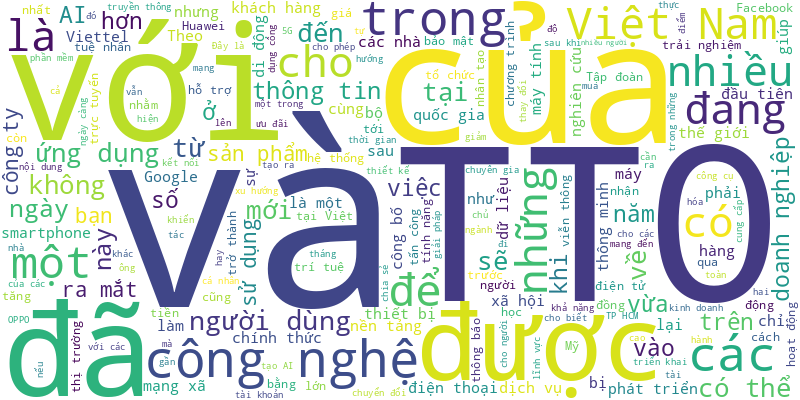
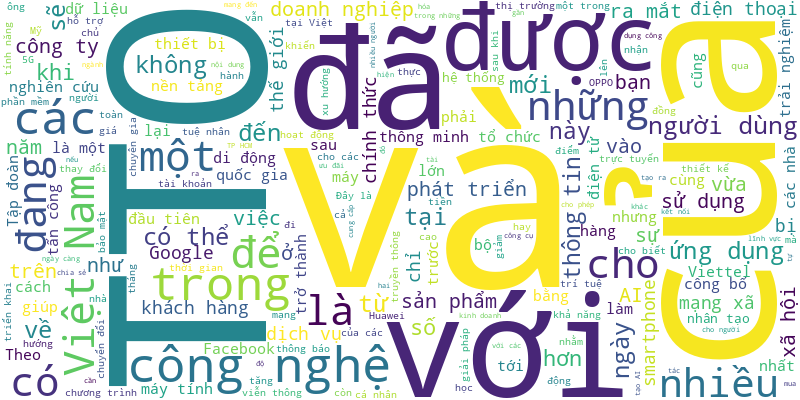
🍀 = 10%

diff --git a/README.md b/README.md
@@ -1,6 +1,17 @@
 # Tuoi Tre RSS 
 
 ## Giáo dục 
+- Đi trao học bổng Tiếp sức đến trường của báo Tuổi Trẻ, GS.TS Phan Lương Cầm luôn mặc áo dài và nụ cười nở trên môi.
+- Mở rộng đào tạo là cần thiết nhưng không thể bỏ qua yếu tố chất lượng, gắn kết thực tiễn và có sự đối thoại thường xuyên với doanh nghiệp. Chỉ có như vậy thì việc đào tạo mới bền vững và không rơi vào tình trạng thừa nhân lực.
+- Bộ Giáo dục và Đào tạo yêu cầu các trường phải chịu trách nhiệm giải trình về căn cứ khoa học và thực tiễn khi lựa chọn tổ hợp xét tuyển.
+- Sáng 9-4, Trường mầm non 12 (quận 4, TP.HCM), khởi công xây dựng hơn 1 năm trước, đã khánh thành và đưa vào sử dụng.
+- Lãnh đạo Sở Giáo dục và Đào tạo Hà Nội khẳng định sẽ không tái diễn tình trạng xếp hàng xin học trong mùa tuyển sinh đầu cấp năm nay.
+- Dạy học 2 buổi/ngày chương trình chính khóa, trường không được thu phí, mỗi thầy cô chỉ có thể phát huy tinh thần tự nguyện dạy tăng cường.
+- Giám đốc Sở Giáo dục và Đào tạo TP.HCM vừa ký văn bản chỉ đạo về tuyển sinh đầu cấp năm học 2025-2026.
+- UBND huyện Ia Grai (Gia Lai) vừa thu hồi quyết định công nhận trúng tuyển 61 viên chức giáo viên sau khi UBND tỉnh này cho rằng vi phạm các chỉ đạo của trung ương.
+- Theo PGS.TS Nguyễn Chí Thành, việc bồi dưỡng giáo viên, xây dựng các khung năng lực AI cho học sinh là nội dung rất quan trọng. Bởi nếu sử dụng AI không đúng cách, người dùng có thể trở thành 'nô lệ số'.
+- Chủ tịch UBND xã Bình Tân (huyện Gò Công Tây, tỉnh Tiền Giang) cho biết đã nắm được vụ việc học sinh Trường tiểu học Nguyễn Văn Trừ (xã Bình Tân) tố cáo thầy chủ nhiệm sàm sỡ học sinh ngay trên bục giảng.
+- Ông Dương Thế Hảo khởi kiện dân sự đòi bồi thường 36 tỉ đồng, với lý do tốt nghiệp năm 1989 nhưng 30 năm sau Đại học Kinh tế quốc dân mới giao bằng.
 - Hình ảnh suất cơm bán trú chỉ có vài lát chả lụa và rau củ xào được cho là của học sinh bán trú Trường tiểu học Núi Thành (Đà Nẵng), gây tranh cãi trên mạng xã hội. Nhà trường nói gì về hình ảnh này?
 - Ông Thái Văn Tài, vụ trưởng Vụ Giáo dục phổ thông (Bộ GD-ĐT), khẳng định như vậy khi trao đổi với Tuổi Trẻ về vấn đề tổ chức dạy 2 buổi/ngày ở cấp trung học.
 - Mục tiêu đến năm 2035, mỗi cơ sở đào tạo của Trường đại học Y Hà Nội có ít nhất 1 cơ sở thực hành chính; xây dựng tối thiểu 5 bệnh viện trực thuộc Trường đại học Y Hà Nội đạt tiêu chuẩn chất lượng quốc tế.
@@ -993,21 +1004,68 @@ Trường đại học Văn Lang được QS xếp hạng top 51-100 thế giớ
 - Bộ Giáo dục và Đào tạo có công văn yêu cầu Đại học Huế tổ chức đánh giá lại nội dung luận án tiến sĩ của bà Lê Thị An Hòa được kết luận có lỗi đạo văn.
 - Tối 13-12, Sở Giáo dục và Đào tạo TP.HCM đã ban hành văn bản hướng dẫn về việc nghỉ Tết Nguyên đán Ất Tỵ 2025.
 - Để giảm áp lực, đồng thời tăng cơ hội chọn ngành phù hợp và được học trong môi trường đại học quốc tế tại sân nhà cho 2K7, năm 2025 Trường đại học FPT công bố bốn phương thức tuyển sinh.
-- Trường tiểu học Lương Định Của và Trường THCS Colette vừa được trao biển hiệu kiểm định chất lượng giáo dục Label FrancEducation của Bộ Ngoại giao và châu Âu Pháp.
-- Giờ ra chơi, sân trường Trường THPT Trường Chinh (quận 12, TP.HCM) không có cảnh học sinh cắm mặt vào điện thoại, mà rộn rã tiếng cười nói của các nhóm chơi bóng rổ, đá cầu, nhảy hiện đại...
-- 70 giảng viên và sinh viên của 13 trường đại học và phổ thông trung học từ bảy quốc gia, vùng lãnh thổ châu Á trao đổi kinh nghiệm nhận diện thông tin giả.
-- Thấy trường có thể không còn khả năng hoạt động, các phụ huynh đã đóng gói học phí nhiều năm muốn lấy lại tiền từ trường quốc tế Saigon Star.
-- Lịch nghỉ Tết của học sinh nên chốt thành ngày nghỉ cố định hằng năm?
-- TP.HCM sẽ tổ chức kỳ thi tuyển sinh bổ sung lớp 10 chuyên vào tháng 5-2025, thay vì cuối học kỳ 1 như trước.
-- Học sinh THPT sẽ được học thực hành lái xe theo 4 hình mẫu gồm: đi qua hình số 8, đi qua vạch đường thẳng, đi qua đường có vạch cản, đi qua đường gồ ghề và các nội dung khác có liên quan.
-- Hơn 25 năm qua, cô giáo Phạm Thị Kim Cương (Đà Nẵng) vẫn miệt mài trao con chữ cho nhiều thế hệ học sinh có hoàn cảnh khó khăn.
-- Cuốn sách 'Phòng, chống ma túy trong các cơ sở giáo dục, trường học' được trình bày sinh động, phù hợp với tất cả các lứa tuổi học sinh, sinh viên, dễ đọc, dễ hiểu.
-- Thời gian gần đây công an ở Hà Tĩnh đã kịp thời ngăn chặn các nhóm thanh thiếu niên sử dụng hung khí để giải quyết mâu thuẫn, triệu tập hàng chục thanh thiếu niên để xử lý vi phạm. Dư luận đặt câu hỏi vì sao tình trạng này lại "nóng".
-- Nhiều sáng kiến hợp tác, các giải pháp thiết thực phát triển giáo dục và đào tạo giáo viên đã được lãnh đạo các trường đại học các nước khu vực Đông Nam Á chia sẻ.
 ![Edu](Edu.png)
 ## Thời Sự 
+- Bộ Nội vụ khuyến nghị bổ sung quy định về các ngày nghỉ, mục đích nghỉ với công chức khi chăm con, cha mẹ già đau ốm được làm việc từ xa.
+- Đến 7h30 ngày 10-4, lực lượng chức năng đang phong tỏa hiện trường để điều tra vụ cháy nhà khiến 4 người chết xảy ra tại TP Mỹ Tho, tỉnh Tiền Giang.
+- Hai cơ sở thẩm mỹ tại quận 1 và quận 3 vừa bị Thanh tra Sở Y tế TP.HCM phát hiện có dấu hiệu thực hiện dịch vụ hút mỡ trái phép.
+- Dự thảo Luật Ban hành văn bản quy phạm pháp luật đề xuất bổ sung lại thẩm quyền ban hành văn bản quy phạm pháp luật với cấp xã.
+- Hôm nay 10-4-2025, Tuoi Tre News chính thức nâng cấp lên giao diện mới, được chạy thử nghiệm tại địa chỉ https://tuoitrenews.vn/.
+- Thời gian qua, nhiều tuyến đường, vỉa hè ở TP.HCM được chỉnh trang khoác áo mới nhưng cũng còn những nơi ngổn ngang, bề bộn. Các địa phương cam kết nhiều công trình sẽ hoàn thành trước dịp 30-4.
+- Một số tin tức đáng chú ý: Dự báo GDP Việt Nam tăng 6,6% năm nay; Giá thuê bất động sản công nghiệp phía Nam tăng; 'Đại gia' lúa gạo An Giang bị phong tỏa tài khoản, cổ phiếu sắp hủy niêm yết...
+- Hôm nay 10-4, thời tiết nhiều nơi trên cả nước nắng nóng, oi bức, cảnh báo nguy cơ cháy nổ cao.
+- Theo các cơ quan của tỉnh Khánh Hòa và tỉnh Thái Nguyên, việc “dừng tính” làm thủ tục đất đai và “định vị vị trí đất ở” dễ phát sinh tiêu cực, nhũng nhiễu, gây khó khăn, tốn kém cho dân.
+- UBND TP.HCM đề xuất Bộ Nội vụ nên sửa Luật Tổ chức chính quyền địa phương theo hướng cho địa phương quy định cụ thể cho phù hợp, trao 'cơ hội' cho thành phố trực thuộc Trung ương.
+- Phát hiện 2 nữ sinh đuối nước, 3 thanh niên, trong đó có 2 anh em sinh đôi, ở phường Phú Đông (TP Tuy Hòa, tỉnh Phú Yên) đã không ngần ngại nhảy xuống biển cứu người.
+- Nhiều người mua căn hộ tại chung cư nhà ở xã hội Bàu Tràm Lakeside (quận Liên Chiểu, TP Đà Nẵng) phản ánh việc chủ đầu tư yêu cầu họ nộp lại bản gốc hợp đồng mua bán để làm thủ tục cấp sổ hồng.
+- Chiều 9-4, Thủ tướng Chính phủ Phạm Minh Chính đã tuyên dương và trao Huân chương Bảo vệ Tổ quốc, bằng khen cho các tập thể, cá nhân tham gia cứu hộ động đất tại Myanmar vừa qua.
+- TP.HCM đã cấp phép 21 điểm trông giữ xe trên đường, nhưng vẫn tồn tại tình trạng đậu xe không nộp phí, chưa có cách chế tài xử lý.
+- Với tinh thần 'không ai bị bỏ lại phía sau', Bệnh viện Chợ Rẫy sẽ hỗ trợ mua bảo hiểm y tế cho bệnh nhân trên toàn quốc.
+- UBND TP.HCM vừa ban hành quyết định phê duyệt dự án thành phần 3 - bồi thường, hỗ trợ, tái định cư cao tốc TP.HCM - Mộc Bài đoạn qua TP.HCM.
+- Sau khi được các bác sĩ Bệnh viện Chợ Rẫy (TP.HCM) cứu sống ngoạn mục, nghệ sĩ Thanh Tuấn đã cất tiếng hát cảm ơn ngay tại bệnh viện.
+- Tại phiên họp thứ 44, Ủy ban Thường vụ Quốc hội sẽ xem xét, thông qua nghị quyết mới về sắp xếp đơn vị hành chính và cho ý kiến sửa Hiến pháp.
+- Bộ trưởng Bộ Xây dựng yêu cầu các đơn vị liên quan sớm hoàn thiện thủ tục để khởi công 5 dự án giao thông đã phê duyệt dự án đầu tư trong tháng 5 và tháng 6-2025.
+- Một cán bộ huyện ở tỉnh Nghệ An có đơn nghỉ hưu trước tuổi được đề nghị hưởng chế độ hơn 2,4 tỉ đồng.
+- Hàng ngàn xe 'chôn bánh' trên cao tốc TP.HCM - Long Thành - Dầu Giây, hướng từ Đồng Nai về TP.HCM, nguyên nhân do phong tỏa hiện trường để điều tra vụ cháy xe tải trên cầu Long Thành.
+- Ban Thường vụ Tỉnh ủy Lào Cai và Ban Thường vụ Tỉnh ủy Yên Bái vừa họp thống nhất phương án sắp xếp, hợp nhất hai tỉnh.
+- Lễ hội Làng Sen là hoạt động chính trị, văn hóa có ý nghĩa quan trọng, thể hiện lòng biết ơn, thành kính của nhân dân đối với Chủ tịch Hồ Chí Minh.
+- Bộ Xây dựng quyết định bổ sung hạng mục xây dựng nút giao với đường Võ Văn Kiệt kéo dài kết nối với cao tốc Mỹ Thuận - Cần Thơ để hình thành trục động lực phát triển thành phố Vĩnh Long.
+- Một doanh nghiệp đã đề xuất với tỉnh Quảng Bình về việc xây dựng khu du lịch Hồ Thác Chuối và đỉnh U Bò.
+- Chiều 9-4, trong khuôn khổ sự kiện Gặp gỡ ASEAN tại Đà Nẵng 2025, Chủ tịch UBND TP Đà Nẵng Lê Trung Chinh đã trao khoản ủng hộ 10.000 USD cho đại biện lâm thời Myanmar tại Việt Nam, giúp Myanmar khắc phục hậu quả động đất.
+- Cục Việc làm (Bộ Nội vụ) vừa thông tin về tình hình tai nạn lao động năm 2024, trong đó TP.HCM, Bình Dương, Đồng Nai là những địa phương dẫn đầu.
+- Hàng loạt điểm múc đất, xây dựng trái phép 2 bên quốc lộ 27 để săn view hồ thủy điện Buôn Tua Srah nhiều năm nay, nhưng địa phương chỉ nhắc nhở.
+- Vườn quốc gia U Minh Thượng (huyện U Minh Thượng, Kiên Giang) vừa có thông báo việc tạm ngưng các hoạt động tham quan và trải nghiệm câu cá giải trí trong vườn này để phòng cháy, bảo vệ rừng mùa khô năm 2025.
+- Lực lượng chức năng Đồng Nai đang mời lái xe đầu kéo tông gãy gác chắn khi tàu hỏa đang lao tới lên làm việc.
+- UBND huyện Ia Grai (Gia Lai) vừa thu hồi quyết định công nhận trúng tuyển 61 viên chức giáo viên sau khi UBND tỉnh này cho rằng vi phạm các chỉ đạo của trung ương.
+- Dù đã mạnh tay xử lý các cơ sở nha khoa, thẩm mỹ viện tại Đắk Lắk không phép, Thanh tra Sở Y tế tỉnh Đắk Lắk thừa nhận các vi phạm vẫn liên tục diễn ra, khuyến cáo người dân cẩn thận.
+- Sau hàng loạt vụ tai nạn trên đèo Bảo Lộc (quốc lộ 20), Công an tỉnh Lâm Đồng tiến hành ghi hình xử nhiều trường hợp lấn làn vượt ẩu ở khu vực nói trên.
+- TP Huế đã lập phương án sắp xếp từ 133 đơn vị hành chính cấp xã xuống còn 66 xã, phường. Tuy nhiên đây chưa phải là phương án cuối cùng.
+- Chia sẻ với Tuổi Trẻ Online ngày 9-4, nhiều người dân cho biết cảm thấy thích thú trước sự xuất hiện của mô hình "ngôi nhà xanh" thu gom rác thải phế liệu bên kênh 19-5 (phường Bình Hưng Hòa, quận Bình Tân, TP.HCM).
+- Xe tải đang chạy trên cao tốc TP.HCM - Long Thành - Dầu Giây thì bất ngờ bị cháy rụi, nguyên nhân đang được điều tra.
+- Bộ trưởng Đỗ Đức Duy cho rằng trong bối cảnh đang sắp xếp bộ máy, có tâm lý dè dặt trong thực hiện đề án 1 triệu héc ta lúa chất lượng cao, phát thải thấp.
+- Tổng Bí thư Tô Lâm nhắc lại mục tiêu đến 2030, 100% người có công và gia đình người có công sẽ có mức sống trung bình khá trở lên, được chăm lo toàn diện về vật chất, tinh thần.
+- Theo dự thảo, sau sắp xếp, tỉnh Bình Phước giảm hơn 50% đơn vị hành chính cấp xã, giảm từ 111 đơn vị còn 48 đơn vị.
+- Một vụ ngộ độc thực phẩm nghi liên quan đến cơm nắm khiến 12 học sinh tại Nghệ An nhập viện.
+- Trong 2 ngày 8 và 9-4 đã xảy ra 3 vụ xe tải đâm hỏng cần chắn đường sắt khi qua đường ngang. Điều may mắn là các vụ việc trên không dẫn tới tai nạn với tàu hỏa.
+- Sáng 9-4, Đồng Tháp công bố quyết định của Thủ tướng Chính phủ về việc phê chuẩn kết quả bầu ông Trần Trí Quang giữ chức vụ chủ tịch tỉnh Đồng Tháp.
+- Cụ bà 104 tuổi ở phường Tân Kiểng, quận 7 (TP.HCM) không thể đi lại, Công an TP.HCM cho biết sẽ tổ chức cấp căn cước lưu động cho bà sớm nhất.
+- Thủ tướng Tây Ban Nha Pedro Sánchez cho biết chuyến thăm Việt Nam của ông là khởi đầu cho các hoạt động cấp cao, cũng như giai đoạn hợp tác mới giữa hai nước.
+- GS.TS Phan Lương Cầm - phu nhân cố Thủ tướng Võ Văn Kiệt - vừa qua đời rạng sáng 9-4, ở tuổi 82.
+- Công an bước đầu đã làm rõ vụ việc tài xế dùng hung khí dọa tấn công người khi bị nhắc đậu xe chắn lối đi, đồng thời ra quyết định xử phạt hành chính với lỗi dừng, đỗ xe không đúng quy định.
+- Gần 3 năm vắng bóng, dịch cúm gia cầm A/H5N1 xuất hiện trở lại huyện Hải Lăng (Quảng Trị), với ổ dịch mới nhất trên đàn vịt khoảng 5.000 con của hộ ông Đoàn Cường.
+- Theo nhận định của nhiều chuyên gia, nếu sáp nhập tỉnh Bình Dương, Bà Rịa - Vũng Tàu vào TP.HCM sẽ mở ra dư địa phát triển, tạo động lực đưa TP.HCM (mở rộng) trở thành một siêu đô thị mang tầm vóc châu Á.
+- Thông tin sáp nhập 3 tỉnh Bến Tre, Trà Vinh, Vĩnh Long thành một tỉnh mới có tên là Vĩnh Long đang thu hút sự quan tâm.
+- Lần đầu tiên hai tàu chiến đấu mặt nước hiện đại nhất của Hải quân Việt Nam là tàu hộ vệ tên lửa 015 - Trần Hưng Đạo và 016 - Quang Trung sẽ tham gia tuần tra liên hợp ở vùng biển vịnh Bắc Bộ với Hải quân Trung Quốc.
+- Trong quá trình di chuyển, MC Thanh Bạch không may rơi xuống mương thoát nước, sâu khoảng 3 mét và bị chấn thương nặng.
+- Chào mừng kỷ niệm 50 năm ngày thống nhất đất nước, đồng thời hướng tới cột mốc 50 năm thành lập báo Tuổi Trẻ, Tuoi Tre News - phiên bản tiếng Anh của báo Tuổi Trẻ - sẽ có bản nâng cấp giao diện mới và chạy thử nghiệm vào ngày 10-4.
+- Lễ đón Thủ tướng Tây Ban Nha Pedro Sánchez diễn ra trang trọng tại Phủ Chủ tịch sáng 9-4, đánh dấu lần đầu tiên thủ tướng nước này thăm chính thức Việt Nam, kể từ khi hai nước thiết lập quan hệ ngoại giao vào năm 1977.
+- Kiên Giang hôm nay tiến hành cưỡng chế, thu hồi hơn 14.000m² đất của một hộ dân đã có hành vi bao chiếm xây dựng công trình nhà, trồng cây ở xã Cửa Cạn, TP Phú Quốc.
+- Sáng 9-4, tại sân bay Biên Hòa, 10 trực thăng bắt đầu thực luyện đội hình bay kéo cờ Tổ quốc, cờ Đảng, sẵn sàng cho lễ diễu binh kỷ niệm 50 năm thống nhất đất nước.
+- Một người dân có nhà tại huyện Bình Chánh, TP.HCM cho biết người thuê đóng tiền nước trễ nên bị cắt nước, khi đóng lại phải bị phạt 702.000 đồng.
+- Bộ Nội vụ đề xuất cán bộ, công chức được hưởng tiền lương, tiền thưởng theo vị trí việc làm đảm nhận, phù hợp với điều kiện kinh tế - xã hội của đất nước.
 - Thời gian qua có tình trạng mua lại pháp nhân rồi biến pháp nhân này thành công ty "ma" để mua bán hóa đơn VAT hoặc có trường hợp thuê xe ôm làm giám đốc rất dễ dàng.
 - UBND TP.HCM báo cáo Thủ tướng Chính phủ và Bộ Tài chính về việc xin dừng nhiều dự án BT và việc đã dừng dự án BT nhà thi đấu Phan Đình Phùng.
+- Trước video lan truyền trên mạng xã hội với những bình luận cho rằng nhân viên trừng mắt với người bệnh, Bệnh viện Mắt Đà Nẵng khẳng định đây là thông tin sai.
 - Hình ảnh suất cơm bán trú chỉ có vài lát chả lụa và rau củ xào được cho là của học sinh bán trú Trường tiểu học Núi Thành (Đà Nẵng), gây tranh cãi trên mạng xã hội. Nhà trường nói gì về hình ảnh này?
 - Ngoài 10 màn hình LED tại trung tâm, TP.HCM sẽ bố trí 22 màn hình khác tại các quận huyện, TP Thủ Đức và huy động các màn hình LED thương mại để chiếu lễ diễu binh, diễu hành.
 - Hôm nay 9-4, thời tiết cả nước đã ổn định hơn, Bắc Bộ giảm mưa, hửng nắng, Trung Bộ ngày nắng, Nam Bộ nắng nóng.
@@ -1061,7 +1119,7 @@ Trường đại học Văn Lang được QS xếp hạng top 51-100 thế giớ
 - Liên quan đến sự việc nai xuất hiện dọc đường Rừng Sác (huyện Cần Giờ, TP.HCM), mới đây Ban quản lý rừng phòng hộ Cần Giờ đã có thông tin khuyến cáo nên làm gì để đảm bảo sự an toàn cho nai và người.
 - Ba dự án cao tốc từ Hà Tĩnh đến Quảng Bình đang gấp rút hoàn thiện những công đoạn cuối cùng, hướng tới mục tiêu thông xe kỹ thuật vào dịp lễ 30-4 lịch sử.
 - Theo thông tin từ Bộ Quốc phòng, đoàn cứu hộ, cứu nạn của Việt Nam làm nhiệm vụ tại Myanmar sẽ về đến sân bay Nội Bài (Hà Nội) vào chiều nay 8-4.
-- Bộ Công an đề xuất hành vi sản xuất, buôn bán hàng giả là lương thực, thực phẩm, phụ gia thực phẩm hoạt động trên các nền tảng thương mại điện tử có từ 500 người tiếp cận trở lên bị phạt tù từ 1-5 năm.
+- Tại dự thảo Bộ luật Hình sự (sửa đổi) do Bộ Công an chủ trì soạn thảo đã đề xuất nhiều tội phải chịu trách nhiệm hình sự trong đó có bán hàng giả trên sàn thương mại điện tử có thể bị phạt tù đến 10 năm.
 - Tu sĩ hiếp dâm chú tiểu trong một cơ sở tôn giáo tại Đà Lạt từng bị kỷ luật loại khỏi hàng ngũ tăng sĩ do vi phạm nghiêm trọng về đạo hạnh.
 - Chính phủ vừa có nghị quyết số 74 ban hành kế hoạch thực hiện sắp xếp đơn vị hành chính và xây dựng mô hình tổ chức chính quyền địa phương 2 cấp.
 - Việt Nam nhập khẩu thịt và sản phẩm sữa ngày càng tăng, chi hơn 1 tỉ USD trong 3 tháng đầu năm 2025.
@@ -1948,64 +2006,6 @@ Trường đại học Văn Lang được QS xếp hạng top 51-100 thế giớ
 - Sau 6 ngày xảy ra vụ tàu chìm, lực lượng tìm kiếm cứu nạn vẫn chưa tìm thấy ba ngư dân Nghệ An mất tích trên biển.
 - Vụ tai nạn xảy ra tại TP Pleiku, Gia Lai khi chiếc xe con lao thẳng vào trụ đèn tín hiệu giao thông, 3 người bị thương.
 - Cảnh sát giao thông tuần tra phát hiện người phụ nữ "cầm lái" vali điện chạy trên đường Lê Duẩn, quận 1 nên mời về công an phường kiểm tra, lập biên bản.
-- Metro nối dài từ Suối Tiên đi Thủ Dầu Một là dấu gạch nối rất quan trọng trong tổ chức giao thông công cộng thông suốt nếu hai địa phương sáp nhập.
-- Tổng thống Brazil Luiz Inácio Lula da Silva, người có tình cảm sâu sắc với Việt Nam, sẽ thăm cấp nhà nước Việt Nam từ ngày 27 đến 29-3.
-- ‘Ná thủ’ bắn cá trên kênh biết sai nhưng nói do kiếm sống; tiếc thương nữ phiên dịch qua đời trong vụ tai nạn là những sự việc được bạn đọc quan tâm tuần qua.
-- Bộ Quốc phòng đề xuất dừng các hoạt động sản xuất, kinh doanh tại cảng quốc tế Cam Ranh (Khánh Hòa) khi có tình huống về quốc phòng.
-- 11 ngư dân Quảng Nam (1 người đã tử vong) được tàu cá QNa 91769 TS đưa vào cảng Đề Gi (huyện Phù Cát, Bình Định) bàn giao cơ quan chức năng và gia đình.
-- Chủ tịch nước Lương Cường cùng nhiều lãnh đạo, nguyên lãnh đạo Đảng, Nhà nước dự lễ kỷ niệm 50 năm giải phóng tỉnh Bình Phước.
-- Người đàn ông 39 tuổi ở tỉnh Trà Vinh tử vong do đa chấn thương, nghi nhảy từ tầng 7 của tòa nhà Bệnh viện Đa khoa Trà Vinh xuống đất.
-- Vụ va chạm giữa chiếc xe con "tập lái" với đoàn xe lửa SE12 từ TP.HCM đi Hà Nội xảy ra sáng 23-3 trên địa phận tỉnh Ninh Bình.
-- Tỉnh Quảng Nam tổ chức thông xe kỹ thuật hai cây cầu Sông Thu và An Bình vượt sông Thu Bồn và sông Vu Gia, tổng chiều dài hai cây cầu hơn 1,7km.
-- Sáng 23-3, Tỉnh ủy Tây Ninh tổ chức hội nghị công bố quyết định của Bộ Chính trị về việc chuẩn y ông Nguyễn Mạnh Hùng giữ chức bí thư Tỉnh ủy Tây Ninh.
-- Tuần này, từ 23 đến 29-3, nắng trải dài tại ba miền cả nước, nhiều nơi thời tiết nắng nóng.
-- Trong ba phương án dự kiến tại Đề án sắp xếp các đơn vị hành chính cấp xã trên địa bàn TP Đà Lạt giai đoạn 2023 – 2030 đều có tên phường Đà Lạt.
-- Sau nhiều giờ tìm kiếm, lực lượng chức năng tỉnh Ninh Thuận đã tìm thấy thi thể 2 thiếu nữ, nghi nhảy cầu tự tử khuya 22-3.
-- Chuyên môn và kỹ năng của nguồn cán bộ sau sắp xếp bộ máy được nhiều doanh nghiệp đánh giá cao và cho rằng là nguồn nhân sự quý.
-- Ngọn lửa bùng phát dữ dội từ một tàu cá và nhanh chóng lan sang các tàu khác đang neo đậu gần sát nhau.
-- Bộ Quốc phòng đề xuất cấm người điều khiển phương tiện bay (drone) khi trong máu, hơi thở có nồng độ cồn, ma túy, chất gây ngủ, các chất bị cấm.
-- Sau khi tinh gọn bộ máy, không ít cán bộ, công chức, viên chức vẫn có nhu cầu tiếp tục làm việc để vừa lo cho gia đình vừa đóng góp cho xã hội.
-- Ngoài những diễn biến của vụ việc về mặt hình sự, ở đây cũng đặt ra vấn đề xung quanh chuyện sở hữu và sử dụng ngoại tệ như thế nào cho đúng pháp luật.
-- Bộ Nội vụ sẽ tập trung điều chỉnh mức lương tối thiểu vùng trong thời gian tới.
-- Phú Quốc (Kiên Giang) đang khẩn trương triển khai nhiều dự án trọng điểm nhằm nâng cấp hạ tầng giao thông, dịch vụ và du lịch để chào đón sự kiện Diễn đàn Hợp tác kinh tế châu Á - Thái Bình Dương sẽ diễn ra tại đây vào năm 2027 (APEC 2027).
-- Cả vùng trời vang dội âm thanh gầm rú khi những phi đội "hổ mang chúa" Su-30MK2 mạnh mẽ tung cánh uốn lượn trên không.
-- Hôm nay 23-3, thời tiết Bắc Bộ ngày nắng, đêm vài nơi mưa rào. Nam Bộ trời tiếp tục nắng nóng, oi bức.
-- Báo Tuổi Trẻ với tác phẩm "Toàn cảnh vụ tấn công 2 trụ sở UBND xã ở Đắk Lắk" đã đoạt giải vàng ở thể loại video trên nền tảng số, tại Liên hoan truyền hình toàn quốc lần thứ 42, đồng thời đoạt 2 giải bạc tại thể loại này.
-- Chủ tịch UBND tỉnh Bắc Ninh Vương Quốc Tuấn chỉ đạo xử lý nghiêm cán bộ buông lỏng quản lý, tiếp tay vi phạm, đồng thời kiên quyết lập hồ sơ khởi tố vụ án với vi phạm nghiêm trọng, tái vi phạm gây ô nhiễm môi trường.
-- Cảnh sát giao thông lập biên bản xử phạt 4 tài xế xe Porsche vượt ẩu, đi không đúng làn đường quy định trên đường cao tốc Nội Bài - Lào Cai. Họ đến từ Đồng Nai và TP.HCM.
-- Thủ tướng Chính phủ gửi lời thăm hỏi, động viên, biểu dương lực lượng quân đội, công an, dân quân, nhân dân đã khẩn trương phối hợp, xuyên đêm chữa cháy, khống chế, dập tắt đám cháy rừng ở Tuyên Quang.
-- Liên quan vụ việc nhiều clip ngắn đăng tải trên cộng đồng mạng Phú Quốc hôm nay ghi lại khoảnh khắc cô giáo được cho rằng dạy ở Trường mầm non Dương Đông (TP Phú Quốc) đánh học sinh, địa phương đang cho xác minh vụ việc.
-- Đại tướng Phan Văn Giang yêu cầu rà soát lại chức năng, nhiệm vụ của ban chỉ huy quân sự huyện để điều chuyển sang lực lượng mới bảo đảm phù hợp, phát huy cao nhất hiệu quả sau khi bỏ mô hình ban chỉ huy quân sự cấp huyện.
-- Ngày 22-3, thông tin từ Đồn công an cửa khẩu Cảng hàng không quốc tế Tân Sơn Nhất (TP.HCM), đơn vị vừa khẩn trương phối hợp với các đơn vị tìm lại được điện thoại do du khách bỏ quên tại sân bay chỉ trong thời gian ngắn.
-- UBND tỉnh Đắk Nông đã cấp phép cho một doanh nghiệp được khai thác mỏ đất đắp, phục vụ thi công, đẩy nhanh tiến độ các dự án sau khi gỡ vướng quy hoạch.
-- Có thói quen hút shisha (thuốc lá nung nóng) liên tục trong một năm, một nam thanh niên 22 tuổi đã bị đột quỵ xuất huyết não nguy kịch.
-- Trong lúc xây dựng nút giao Tân Vạn (thuộc vành đai 3 TP.HCM), một căn nhà 3 tầng 'siêu mỏng' nghiêng về phía trước, gây lo lắng cho người dân trong khu vực.
-- Đề xuất thành phố thuộc tỉnh thành phường khi bỏ cấp huyện phù hợp chủ trương, nhưng có thể nghiên cứu giữ lại thành phố và hạ xuống thành chính quyền cơ sở.
-- Trưa 22-3, tại ga Thủ Đức (thuộc tuyến metro số 1, TP.HCM) xảy ra vụ va chạm giữa một tài xế xe ôm công nghệ và nhân viên bảo vệ nhà ga.
-- Vi khuẩn Helicobacter pylori (HP) là một trong những nguyên nhân hàng đầu dẫn đến các bệnh lý dạ dày. Việt Nam nằm trong nhóm những nước có tỉ lệ nhiễm vi khuẩn HP cao.
-- Việc sáp nhập tỉnh thành đang được xem xét, chưa công bố chính thức, nhưng dù diễn ra theo kịch bản nào thì bài toán kết nối TP.HCM với các tỉnh lân cận như Bình Dương, Bà Rịa - Vũng Tàu cũng đã được tính tới.
-- Liên quan vụ khung hạn chế chiều cao dưới dạ cầu Xáng (huyện Hóc Môn, TP.HCM) bị xe tông ngã đổ, cơ quan chức năng đã gắn camera.
-- Sau loạt bài của Tuổi Trẻ về tình trạng lấn chiếm vỉa hè tại Bình Thạnh, Gò Vấp (TP.HCM), các địa phương kiểm tra để lập lại trật tự đô thị.
-- Khi bỏ cấp huyện, sáp nhập các xã trở thành "huyện thu nhỏ" có thể nghiên cứu lập phòng chuyên môn giúp UBND cấp xã điều hành công việc.
-- Hòa Phát Dung Quất đề xuất đầu tư dự án thép chất lượng cao, làm ray đường sắt cao tốc tại Khu kinh tế Dung Quất.
-- Một người đàn ông quay clip chê khu nhà Công tử Bạc Liêu 'chẳng có gì' mà giá vé 45.000 đồng là quá cao, và cho rằng 'đi sở thú hấp dẫn hơn'.
-- Mạng xã hội đang lan truyền clip ghi lại cảnh bảo vệ nhà ga metro số 1 và tài xế xe ôm công nghệ đánh nhau tới tấp.
-- Người dân mong muốn khu quy hoạch tái định cư điện hạt nhân Ninh Thuận 1 bố trí đầy đủ diện tích để phát triển thương mại, dịch vụ.
-- Đức hack Facebook của người khác, rồi đóng giả con dâu nhắn tin cho mẹ chồng chuyển 490 triệu đồng vào tài khoản của mình.
-- Cao tốc Gia Nghĩa - Chơn Thành sẽ tạo không gian, động lực phát triển mới cho vùng Tây Nguyên và vùng Đông Nam Bộ.
-- Ủy ban Thường vụ Quốc hội sẽ tổ chức hội nghị đại biểu Quốc hội chuyên trách, để đóng góp ý kiến với 9 dự luật trình tại kỳ họp thứ 9 tới.
-- Vingroup sẽ hỗ trợ, đầu tư nâng cấp trang thiết bị cấp cứu, xe cấp cứu, đào tạo lực lượng cứu hộ cứu nạn và cộng đồng về kỹ thuật sơ cấp cứu.
-- Hàng ngàn nhà trọ, nhà cho thuê nếu không đáp ứng điều kiện an toàn phòng cháy chữa cháy, sau ngày 30-3 phải dừng hoạt động.
-- Việc làm vành đai 3 TP.HCM đoạn qua nút giao Tân Vạn khiến gần 40 hộ dân trên xa lộ Hà Nội rơi vào tình cảnh nền nhà cao hơn mặt đường 3-4m.
-- Nhiều huyện, thị tại Quảng Bình đề xuất lấy tên cấp huyện cũ đặt cho cấp xã mới. Phương án này đang nhận được nhiều sự ủng hộ.
-- Một hiệu trưởng trường tiểu học ở Nghệ An bị đình chỉ công tác, liên quan vụ gian lận tuổi cầu thủ Sông Lam Nghệ An.
-- Sau sắp xếp địa giới hành chính, huyện Tương Dương, Nghệ An là huyện rộng nhất Việt Nam và dự kiến giảm còn 6-7 xã.
-- Quận Hoàn Kiếm (Hà Nội) cho biết sẽ dịch chuyển một số cây xanh trong quá trình cải tạo vườn hoa Lý Thái Tổ, chứ không chặt hạ cây.
-- Khi sáp nhập phường xã, khối lượng công việc gia tăng, nếu không áp dụng công nghệ và AI, cán bộ sẽ dễ quá tải.
-- Hiện nay TP.HCM và Bà Rịa - Vũng Tàu chưa có đường bộ kết nối, muốn đi phải "quá cảnh" Đồng Nai. Bài toán sẽ được giải ra sao thời gian tới?
-- Ngày 22-3, Công an tỉnh Bình Dương đang phối hợp các đơn vị liên quan điều tra vụ 3 cuộn vải rơi khỏi xe kéo, đè chết nam bảo vệ.
-- Lãnh đạo Sở Nội vụ nói thông tin về việc thành phố Huế dự kiến thành lập 31 phường, xã sau khi sắp xếp là không chính xác.
-- Nữ sinh đang bước xuống xe buýt, bất ngờ cửa đóng lại, kẹp vào ba lô đeo phía sau. Lúc này xe bắt đầu chạy nên kéo ngã cô xuống đường.
 ![New](News.png)
 ## Nhịp sống số 
 - Theo nguồn tin đáng tin cậy, tin tặc đã đánh cắp tiền tiết kiệm từ một số thành viên của quỹ hưu trí lớn nhất Úc, và xâm phạm hơn 20.000 tài khoản.
